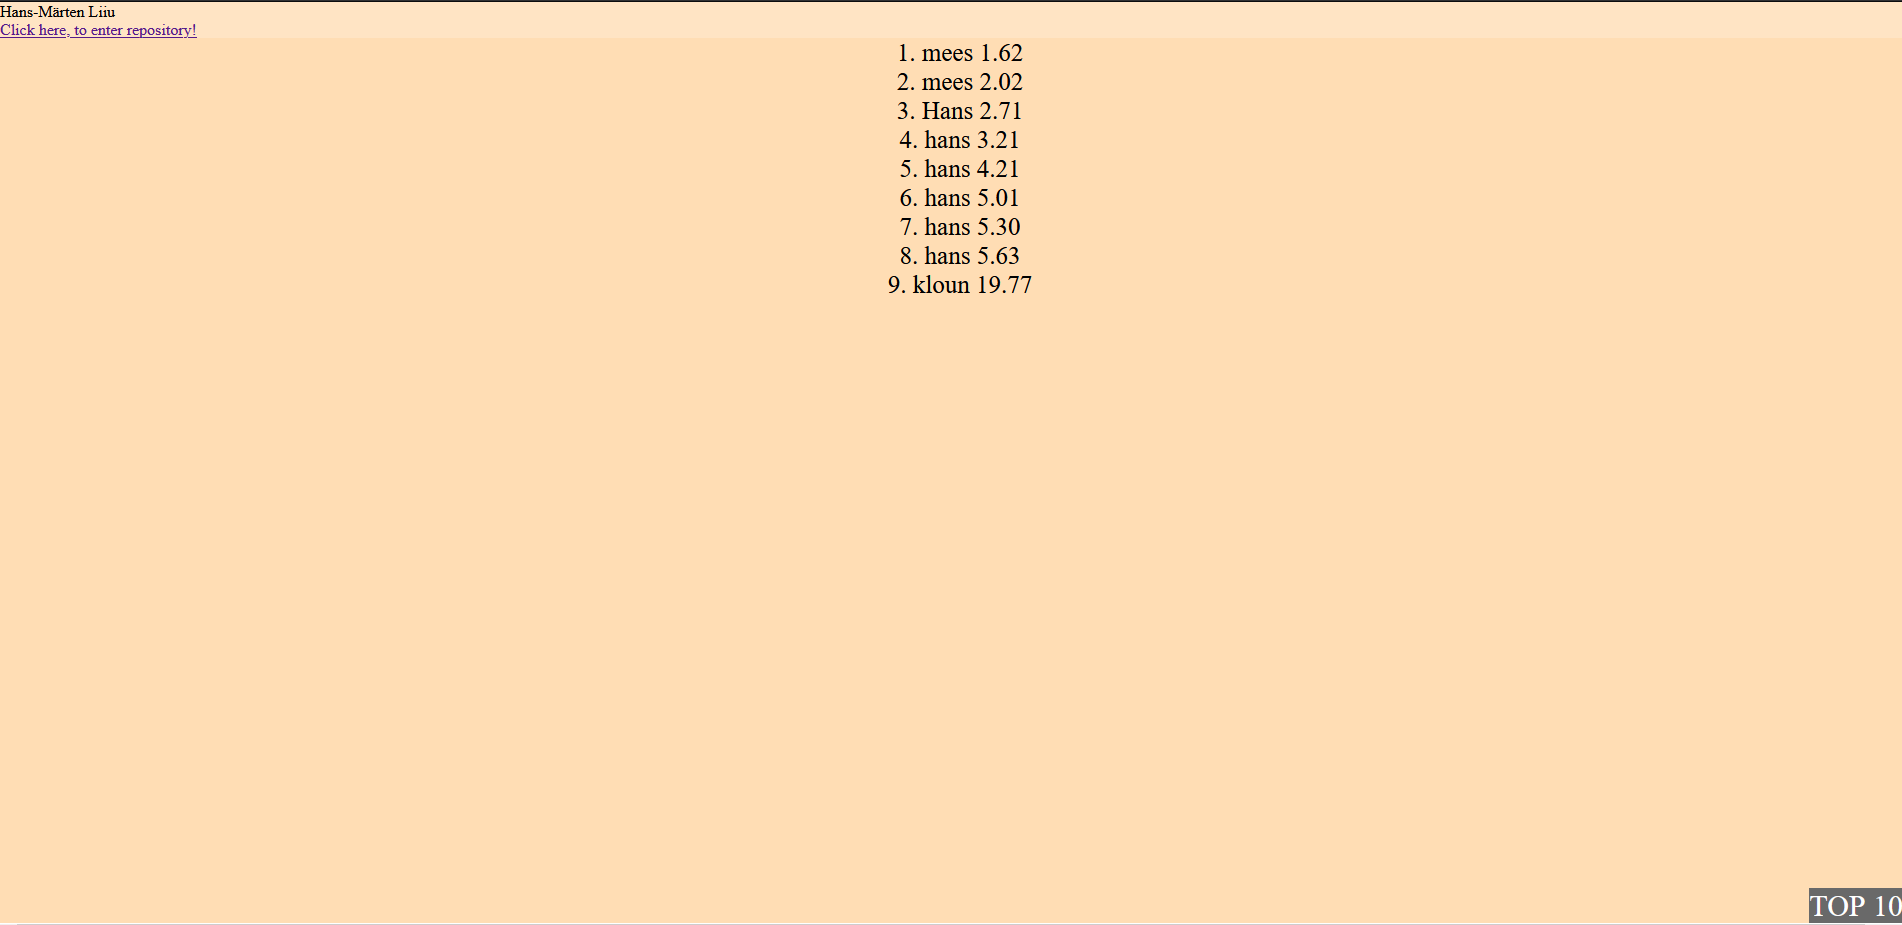
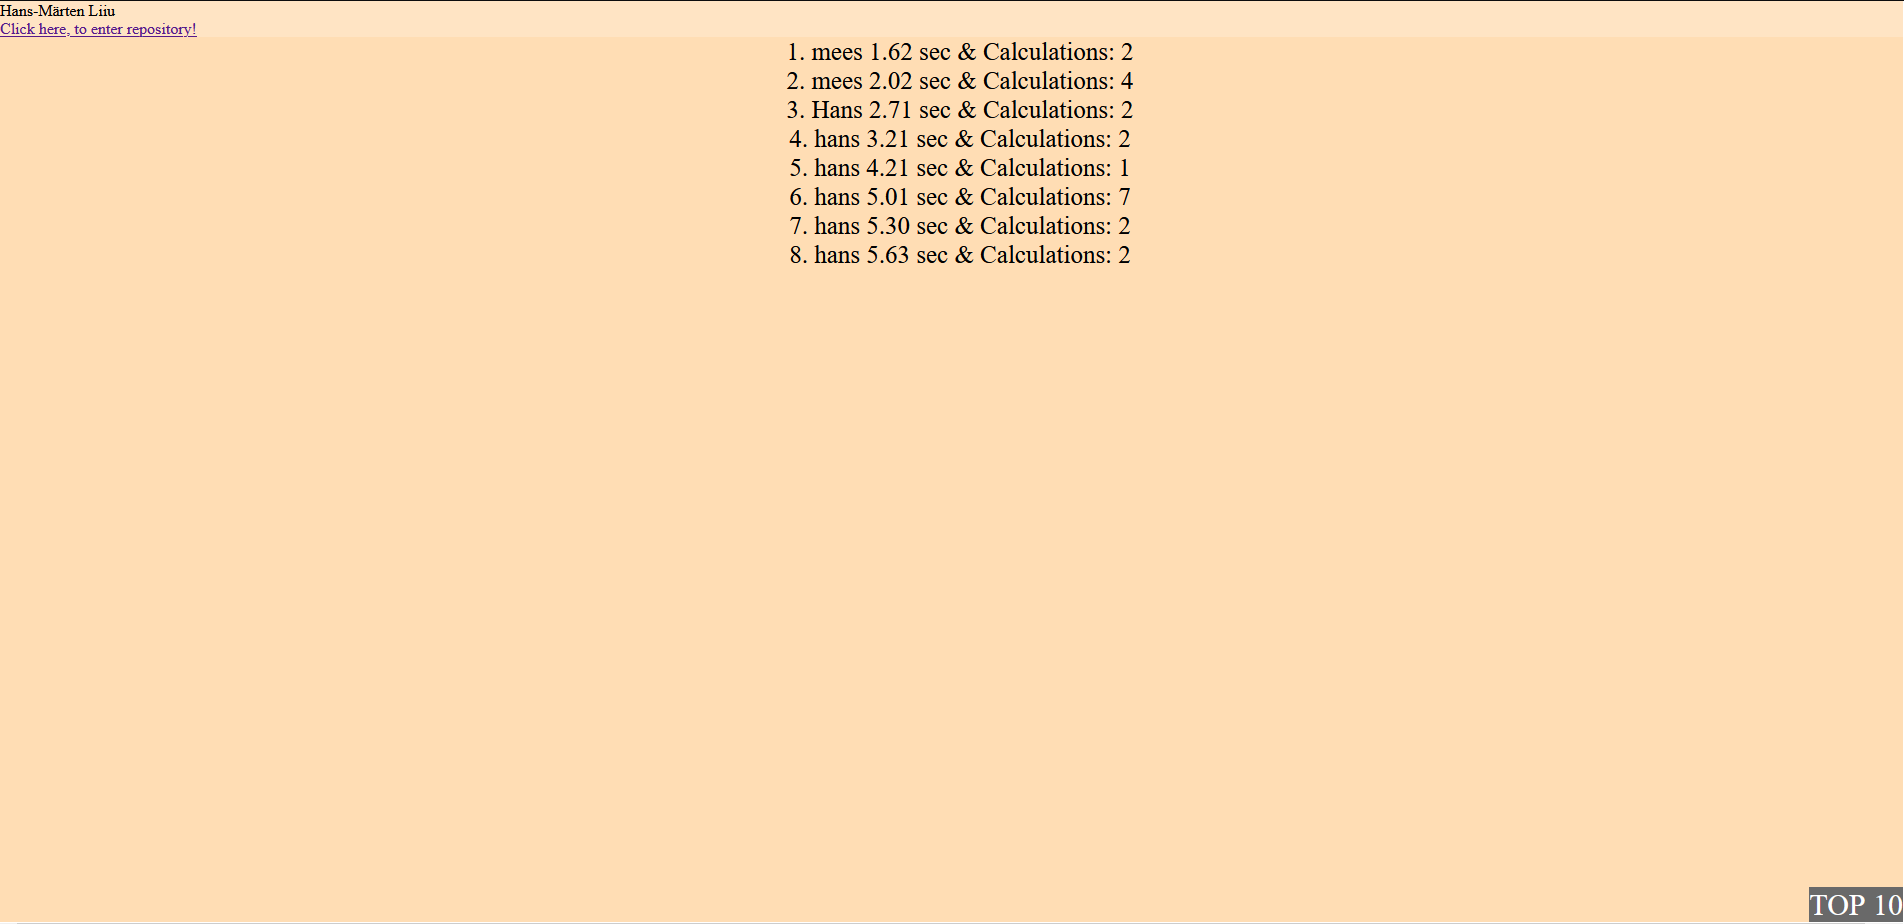
Esimene upload

diff --git a/Calculations.js b/Calculations.js
@@ -1,6 +1,9 @@
 let playerName = prompt('Please enter your name.');
 let tehtearv = prompt('Please enter how many calculations u would like to do!');
 
+if(tehtearv == null){
+    tehtearv = 2;
+}
 
 class Calculation{
     constructor(name){
@@ -75,8 +78,8 @@ class Calculation{
     saveResult(){
         let result = {
             name: this.name,
-            time: ((this.endTime-this.startTime)/1000).toFixed(2)
-            //many: this.calculationsInGame
+            time: ((this.endTime-this.startTime)/1000).toFixed(2),
+            many: this.calculationsInGame
         }
 
         this.results.push(result);
@@ -102,7 +105,7 @@ class Calculation{
             const number3 = number1 + number2 - answer;
             const string = `${number1}  + ${number2} - ${number3}`;
 
-            
+
             this.typeAnswers[i] = answer;
             this.typeCalculations[i] = string;
             
@@ -134,8 +137,8 @@ class Calculation{
         $('#results').html("");
         for(let i = 0; i < this.results.length; i++){            
             if(i === 20){break;}
-            $('#results').append((i+1) + ". " + this.results[i].name + " " + this.results[i].time + "<br>");
-            //" Tehete arv: " + this.results[i].many +
+            $('#results').append((i+1) + ". " + this.results[i].name + " " + this.results[i].time + " sec " + " & Calculations: " + this.results[i].many + "<br>");
+
         }
     }
 

diff --git a/README.md b/README.md
@@ -2,7 +2,8 @@
  [http://greeny.cs.tlu.ee/~hanslii/2-kodutoo/Calculations.html](http://greeny.cs.tlu.ee/~hanslii/2-kodutoo/Calculations.html)
 
 ## Funktsionaalsused_1
-* K6igepealt tuleb sisestada m2ngija nimi.
+* K6igepealt tuleb sisestada m2ngija nimi, see j2rel mitu tehet arvutada soovid.
+* Kui tehete arv j22b sisestamata, siis default arv on 2.
 * M2ng hakkab kohe pihta.
 * Tekib tehe ekraanile ning j2rgmisele tehtele liikumiseks tuleb sisestada 6ige vastus.
 * Kui m2ng l6ppeb saab soovi korral enteriga m2ngu uuesti alustada.
